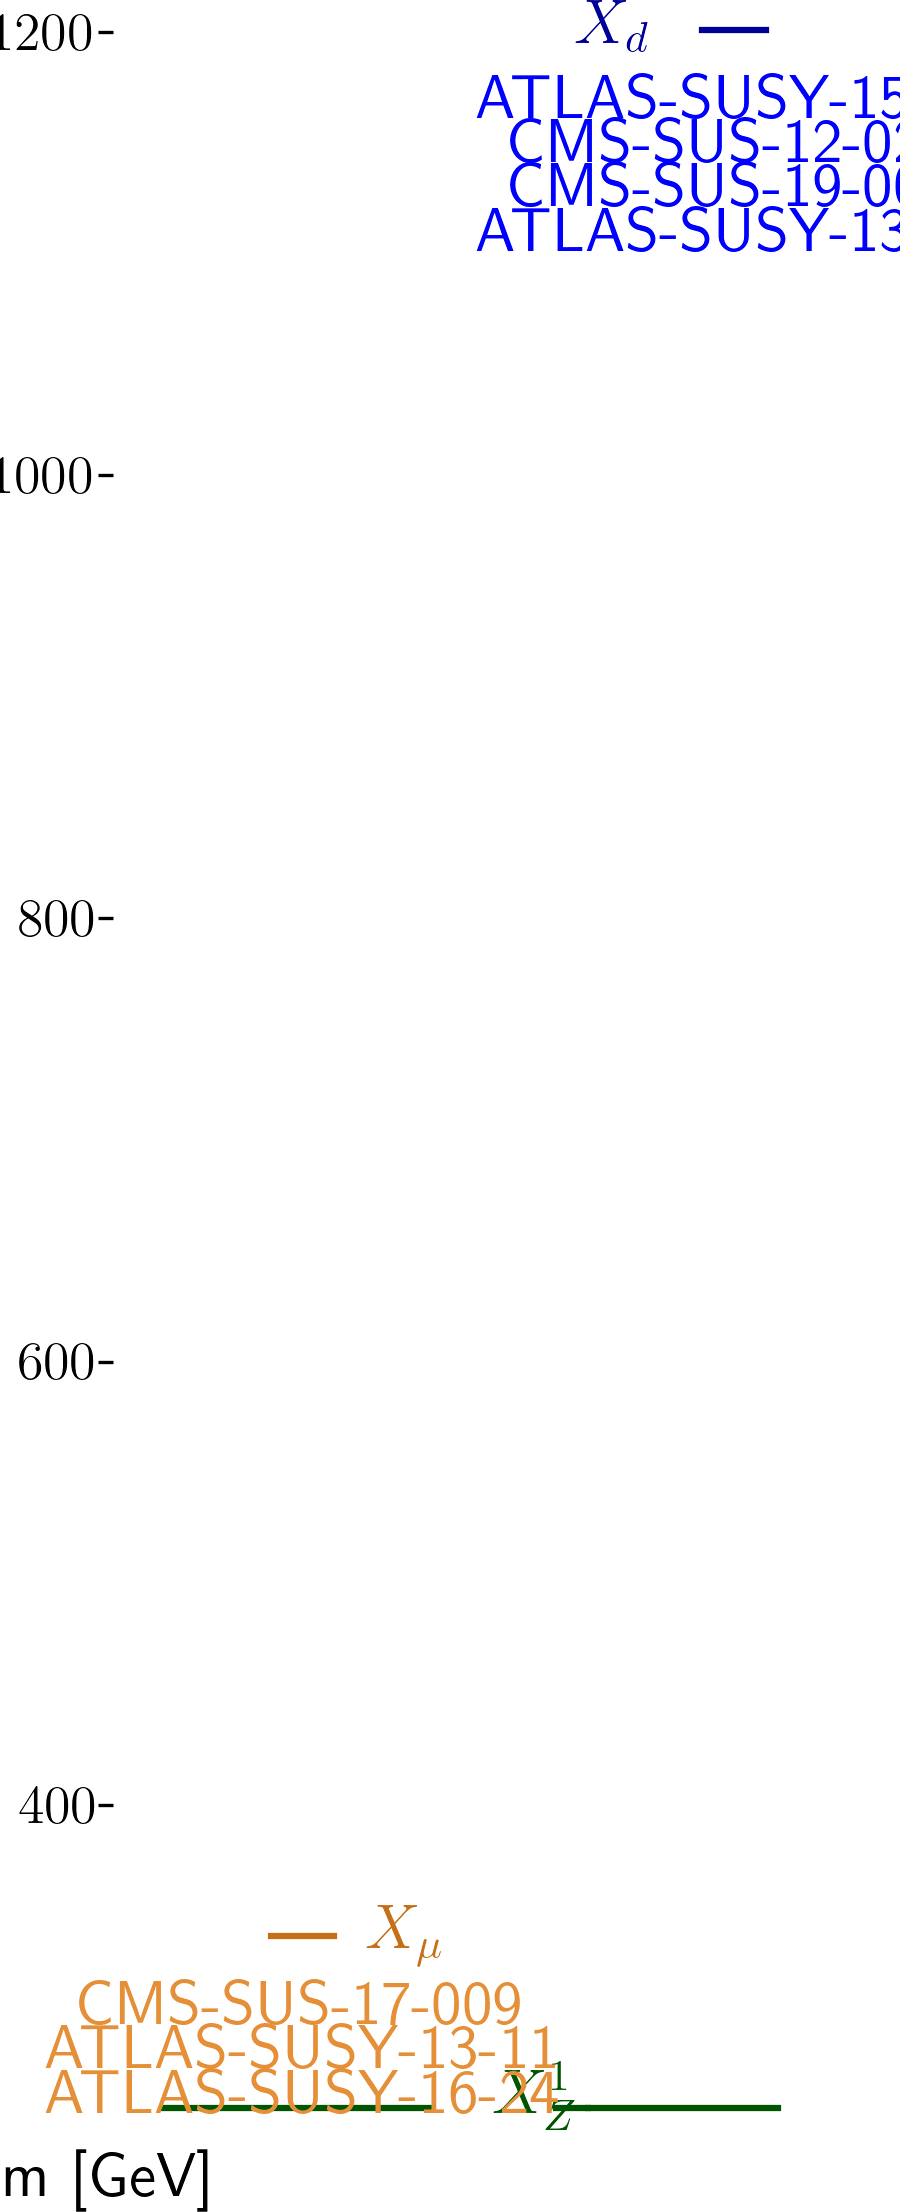
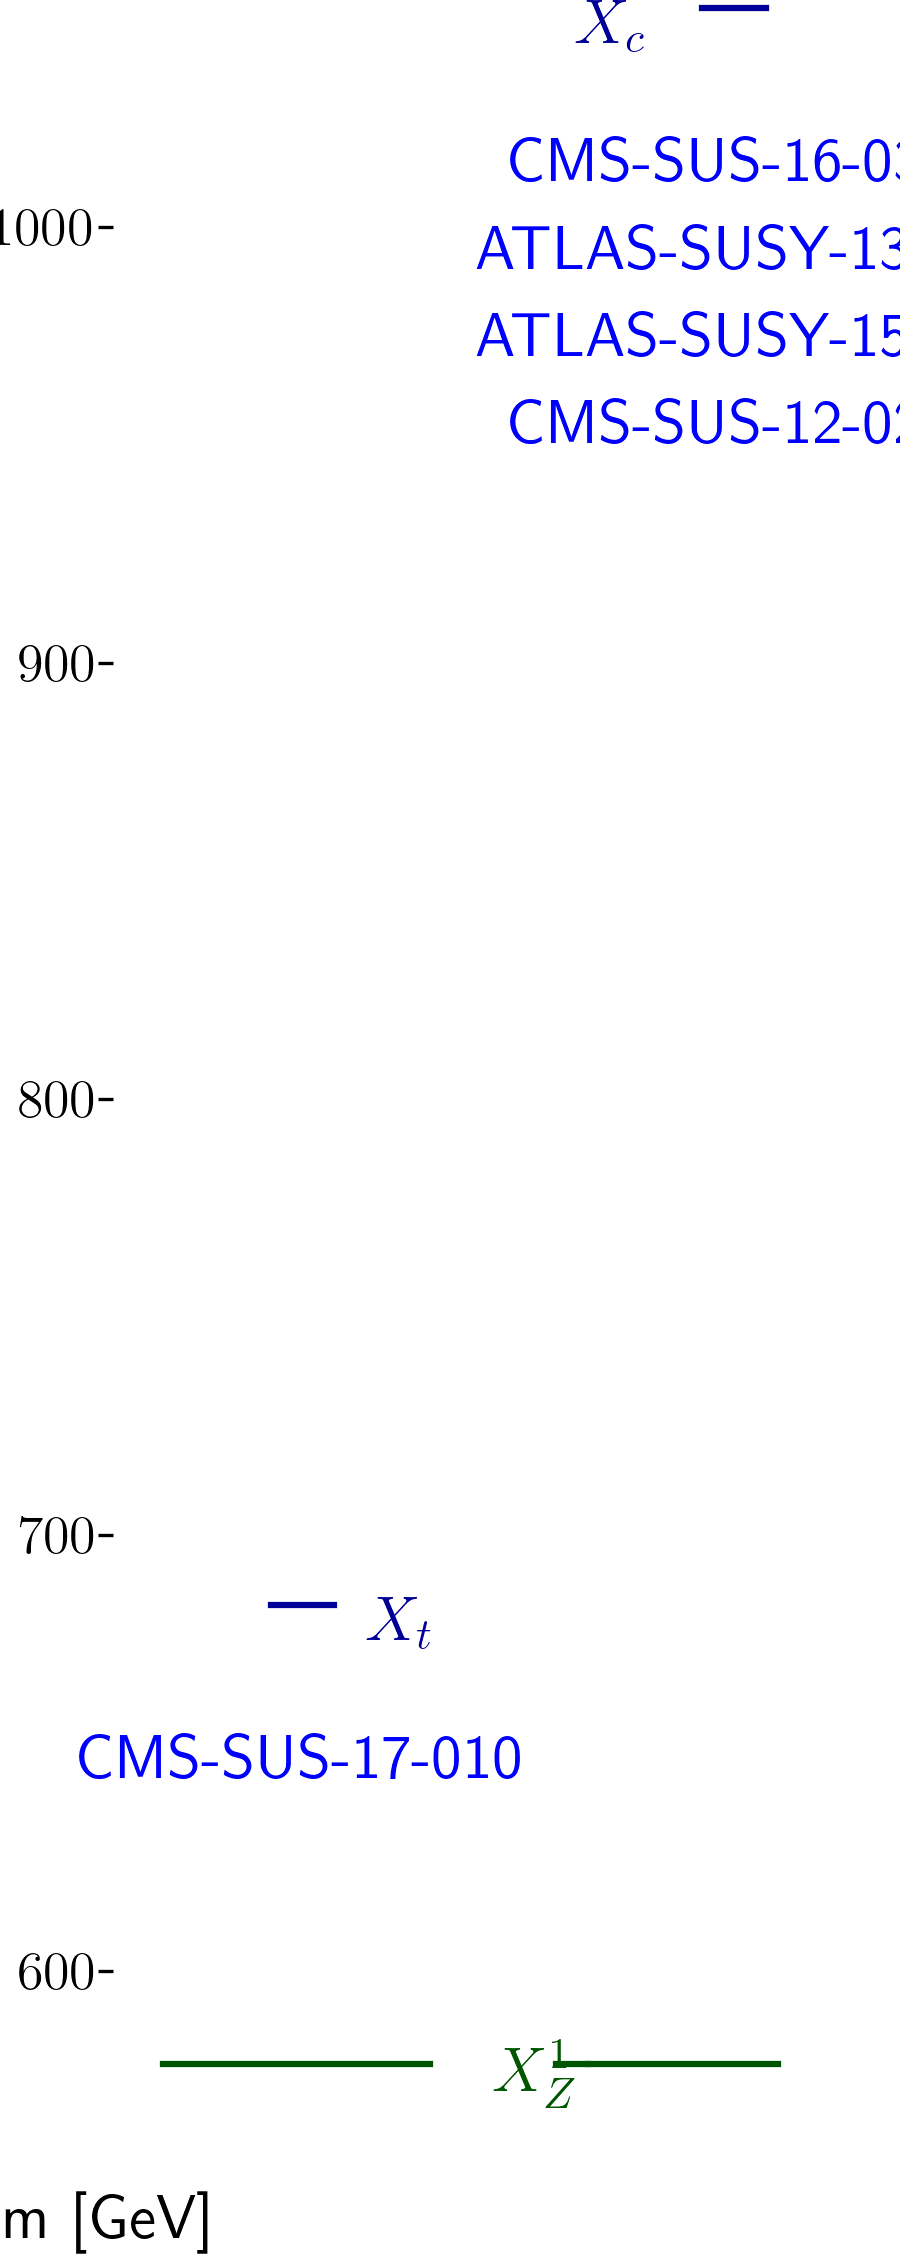
automated update by plotHiscore.py

diff --git a/protomodels/latest/index.html b/protomodels/latest/index.html
@@ -1,32 +1,30 @@
 <html>
 <body>
 <center>
-<table><td><h1>Current best protomodel: K=5.43</h1><td><img height=60px src=https://smodels.github.io/pics/banner.png></table>
+<table><td><h1>Current best protomodel: K=2.18</h1><td><img height=60px src=https://smodels.github.io/pics/banner.png></table>
 </center>
-<b><a href=./hiscore.slha>ProtoModel</a> <a href=./pmodel.py>(dict)</a> produced with <a href=https://smodels.github.io/docs/Validation124fake23>database v1.2.4fake23</a>, combination strategy <a href=./matrix_aggressive.png>aggressive</a> in walker 47 step 129.</b> K plots for: <a href=./M1000022.png?7078070>X<sub>Z</sub><sup>1</sup></a>, <a href=./M1000001.png?7078070>X<sub>d</sub></a>, <a href=./M1000013.png?7078070>X<sub>&mu;</sub></a>. HPD plots for: <a href=./llhd1000001.png?7078070>X<sub>d</sub></a>, <a href=./llhd1000013.png?7078070>X<sub>&mu;</sub></a>. SSM plots for: <br>
+<b><a href=./hiscore.slha>ProtoModel</a> <a href=./pmodel.py>(dict)</a> produced with <a href=https://smodels.github.io/docs/Validation124fake21>database v1.2.4fake21</a>, combination strategy <a href=./matrix_aggressive.png>aggressive</a> in walker 49 step 171.</b> K plots for: <a href=./M1000022.png?7078106>X<sub>Z</sub><sup>1</sup></a>, <a href=./M1000004.png?7078106>X<sub>c</sub></a>, <a href=./M1000006.png?7078106>X<sub>t</sub></a>. HPD plots for: <a href=./llhd1000004.png?7078106>X<sub>c</sub></a>, <a href=./llhd1000006.png?7078106>X<sub>t</sub></a>. SSM plots for: <a href=./ssm_-1000006_1000006.png?7078106>(x&#772;<sub>t</sub>,X<sub>t</sub>)</a><br>
 <table width=80%>
 <tr><td>
 <br><b>18 predictions available. Highest r values are:</b><br><ul>
-<li><a href=http://cms-results.web.cern.ch/cms-results/public-results/publications/SUS-16-033/index.html>CMS-SUS-16-033</a>:T2 r=1.30, r<sub>exp</sub>=0.45<br>
-<li><a href=https://atlas.web.cern.ch/Atlas/GROUPS/PHYSICS/PAPERS/SUSY-2016-07/>ATLAS-SUSY-2016-07</a>:T2 r=0.63, r<sub>exp</sub>=0.36<br>
-<li><a href=https://atlas.web.cern.ch/Atlas/GROUPS/PHYSICS/PAPERS/SUSY-2016-07/>ATLAS-SUSY-2016-07</a>:T2 r=0.50, r<sub>exp</sub>=N/A<br>
-<li><a href=https://cms-results.web.cern.ch/cms-results/public-results/publications/SUS-17-009/>CMS-SUS-17-009</a>:TSlepSlep r=0.49, r<sub>exp</sub>=0.86<br>
-<li><a href=https://atlas.web.cern.ch/Atlas/GROUPS/PHYSICS/PAPERS/SUSY-2013-11/>ATLAS-SUSY-2013-11</a>:TSlepSlep r=0.48, r<sub>exp</sub>=0.24<br>
+<li><a href=http://cms-results.web.cern.ch/cms-results/public-results/publications/SUS-19-006/index.html>CMS-SUS-19-006</a>:T2 r=1.10, r<sub>exp</sub>=N/A<br>
+<li><a href=http://cms-results.web.cern.ch/cms-results/public-results/publications/SUS-16-036/index.html>CMS-SUS-16-036</a>:T2 r=0.80, r<sub>exp</sub>=N/A<br>
+<li><a href=http://cms-results.web.cern.ch/cms-results/public-results/publications/SUS-16-033/index.html>CMS-SUS-16-033</a>:T2 r=0.54, r<sub>exp</sub>=N/A<br>
+<li><a href=http://cms-results.web.cern.ch/cms-results/public-results/publications/SUS-17-010>CMS-SUS-17-010</a>:T2tt r=0.50, r<sub>exp</sub>=N/A<br>
+<li><a href=http://cms-results.web.cern.ch/cms-results/public-results/publications/SUS-16-051/index.html>CMS-SUS-16-051</a>:T2tt r=0.37, r<sub>exp</sub>=N/A<br>
 </ul>
 <td><br><b>K values without analyses: (contribution)</b><br>
 <ul>
-<li> <a href=https://twiki.cern.ch/twiki/bin/view/CMSPublic/PhysicsResultsSUS12028>CMS-SUS-12-028</a>: 5.64 (-3%)
-<li> <a href=https://atlas.web.cern.ch/Atlas/GROUPS/PHYSICS/PAPERS/SUSY-2013-11/>ATLAS-SUSY-2013-11</a>: 5.64 (-3%)
-<li> <a href=https://atlas.web.cern.ch/Atlas/GROUPS/PHYSICS/PAPERS/SUSY-2013-02/>ATLAS-SUSY-2013-02</a>: 5.64 (-3%)
-<li> <a href=http://atlas.web.cern.ch/Atlas/GROUPS/PHYSICS/PAPERS/SUSY-2015-06/>ATLAS-SUSY-2015-06</a>: 5.56 (-2%)
-<li> <a href=https://atlas.web.cern.ch/Atlas/GROUPS/PHYSICS/PAPERS/SUSY-2016-24/>ATLAS-SUSY-2016-24</a>: 3.64 (23%)
-<li> <a href=https://cms-results.web.cern.ch/cms-results/public-results/publications/SUS-17-009/>CMS-SUS-17-009</a>: 2.69 (36%)
-<li> <a href=http://cms-results.web.cern.ch/cms-results/public-results/publications/SUS-19-006/index.html>CMS-SUS-19-006</a>: 1.57 (51%)
-<td><img width=600px src=./texdoc.png?1600078070>
-<br><font size=-1>Last updated: Mon Sep 14 12:07:50 2020</font>
+<li> <a href=https://twiki.cern.ch/twiki/bin/view/CMSPublic/PhysicsResultsSUS12028>CMS-SUS-12-028</a>: 2.20 (0%)
+<li> <a href=https://atlas.web.cern.ch/Atlas/GROUPS/PHYSICS/PAPERS/SUSY-2013-02/>ATLAS-SUSY-2013-02</a>: 2.07 (2%)
+<li> <a href=http://atlas.web.cern.ch/Atlas/GROUPS/PHYSICS/PAPERS/SUSY-2015-06/>ATLAS-SUSY-2015-06</a>: 1.35 (15%)
+<li> <a href=http://cms-results.web.cern.ch/cms-results/public-results/publications/SUS-16-033/index.html>CMS-SUS-16-033</a>: 0.00 (39%)
+<li> <a href=http://cms-results.web.cern.ch/cms-results/public-results/publications/SUS-17-010>CMS-SUS-17-010</a>: -0.34 (45%)
+<td><img width=600px src=./texdoc.png?1600078106>
+<br><font size=-1>Last updated: Mon Sep 14 12:08:26 2020</font>
 </table><table style="width:80%">
-<td width=45%><img height=580px src=./ruler.png?1600078070><td width=55%><img height=380px src=./decays.png?1600078070>
-<font size=-3><iframe type="text/html" height="220px" width="100%s" frameborder="0" src="./rawnumbers.html?1600078070"></iframe></font>
+<td width=45%><img height=580px src=./ruler.png?1600078106><td width=55%><img height=380px src=./decays.png?1600078106>
+<font size=-3><iframe type="text/html" height="220px" width="100%s" frameborder="0" src="./rawnumbers.html?1600078106"></iframe></font>
 </table>
 </body>
 </html>

diff --git a/protomodels/latest/rawnumbers.html b/protomodels/latest/rawnumbers.html
@@ -1,11 +1,9 @@
 <table>
 <tr><th>Analysis Name</th><th>Type</th><th>Dataset</th><th>Observed</th><th>Expected</th><th>Approx &sigma;</th><th>Particles</th>
 </tr>
-<tr><td><a href=https://atlas.web.cern.ch/Atlas/GROUPS/PHYSICS/PAPERS/SUSY-2013-02/>ATLAS-SUSY-2013-02</a></td><td>em</td> <td>SR6jm</td><td>36</td><td>33 +/- 6</td><td style="text-align:right">0.4 &sigma;</td><td style="text-align:right">X<sub>d</sub></td></tr>
-<tr><td><a href=https://atlas.web.cern.ch/Atlas/GROUPS/PHYSICS/PAPERS/SUSY-2013-11/>ATLAS-SUSY-2013-11</a></td><td>em</td> <td>Zjets</td><td>1</td><td>1.4 +/- 0.6</td><td style="text-align:right">-0.3 &sigma;</td><td style="text-align:right">X<sub>&mu;</sub></td></tr>
-<tr><td><a href=http://atlas.web.cern.ch/Atlas/GROUPS/PHYSICS/PAPERS/SUSY-2015-06/>ATLAS-SUSY-2015-06</a></td><td>em</td> <td>SR4jt</td><td>5</td><td>4.1 +/- 1.1</td><td style="text-align:right">0.4 &sigma;</td><td style="text-align:right">X<sub>d</sub></td></tr>
-<tr><td><a href=https://atlas.web.cern.ch/Atlas/GROUPS/PHYSICS/PAPERS/SUSY-2016-24/>ATLAS-SUSY-2016-24</a></td><td>em</td> <td>SR2-SF-loose</td><td>169</td><td>133 +/- 22</td><td style="text-align:right">1.4 &sigma;</td><td style="text-align:right">X<sub>&mu;</sub></td></tr>
-<tr><td><a href=https://twiki.cern.ch/twiki/bin/view/CMSPublic/PhysicsResultsSUS12028>CMS-SUS-12-028</a></td><td>ul</td> <td>-</td><td> 5.0 fb </td><td> 6.9 fb</td><td style="text-align:right">-0.5 &sigma;</td><td style="text-align:right">X<sub>d</sub></td></tr>
-<tr><td><a href=https://cms-results.web.cern.ch/cms-results/public-results/publications/SUS-17-009/>CMS-SUS-17-009</a></td><td>ul</td> <td>-</td><td> 38.9 fb </td><td> 22.3 fb</td><td style="text-align:right">1.5 &sigma;</td><td style="text-align:right">X<sub>&mu;</sub></td></tr>
-<tr><td><a href=http://cms-results.web.cern.ch/cms-results/public-results/publications/SUS-19-006/index.html>CMS-SUS-19-006</a></td><td>ul</td> <td>-</td><td> 7.0 fb </td><td> 3.7 fb</td><td style="text-align:right">1.8 &sigma;</td><td style="text-align:right">X<sub>d</sub></td></tr>
+<tr><td><a href=https://atlas.web.cern.ch/Atlas/GROUPS/PHYSICS/PAPERS/SUSY-2013-02/>ATLAS-SUSY-2013-02</a></td><td>em</td> <td>SR6jtp</td><td>8</td><td>4.9 +/- 1.6</td><td style="text-align:right">1.1 &sigma;</td><td style="text-align:right">X<sub>c</sub></td></tr>
+<tr><td><a href=http://atlas.web.cern.ch/Atlas/GROUPS/PHYSICS/PAPERS/SUSY-2015-06/>ATLAS-SUSY-2015-06</a></td><td>em</td> <td>SR4jt</td><td>11</td><td>4.1 +/- 1.1</td><td style="text-align:right">3.0 &sigma;</td><td style="text-align:right">X<sub>c</sub></td></tr>
+<tr><td><a href=https://twiki.cern.ch/twiki/bin/view/CMSPublic/PhysicsResultsSUS12028>CMS-SUS-12-028</a></td><td>ul</td> <td>-</td><td> 17.2 fb </td><td> 20.0 fb</td><td style="text-align:right">-0.3 &sigma;</td><td style="text-align:right">X<sub>c</sub></td></tr>
+<tr><td><a href=http://cms-results.web.cern.ch/cms-results/public-results/publications/SUS-16-033/index.html>CMS-SUS-16-033</a></td><td>ul</td> <td>-</td><td> 36.8 fb </td><td> 22.6 fb</td><td style="text-align:right">1.2 &sigma;</td><td style="text-align:right">X<sub>c</sub></td></tr>
+<tr><td><a href=http://cms-results.web.cern.ch/cms-results/public-results/publications/SUS-17-010>CMS-SUS-17-010</a></td><td>ul</td> <td>-</td><td> 840.8 fb </td><td> 505.3 fb</td><td style="text-align:right">1.3 &sigma;</td><td style="text-align:right">X<sub>t</sub></td></tr>
 </table>

diff --git a/protomodels/latest/pmodel.py b/protomodels/latest/pmodel.py
@@ -1,1 +1,1 @@
-{'masses': {1000022: 253.412, 1000013: 330.671, 1000001: 1190.809}, 'ssmultipliers': {(1000022, 1000022): 0.07, (1000013, 1000013): 19.472, (-1000013, 1000013): 21.269, (-1000013, -1000013): 0.0, (1000013, 1000022): 21.269, (-1000013, 1000022): 21.269, (1000001, 1000001): 0.791, (-1000001, 1000001): 1.628, (-1000001, -1000001): 1.628, (1000001, 1000022): 1.628, (-1000001, 1000022): 1.628, (1000001, 1000013): 1.739, (-1000001, 1000013): 1.739, (-1000013, 1000001): 1.942, (-1000013, -1000001): 0.0}, 'decays': {1000022: {}, 1000013: {1000022: 1.0}, 1000001: {1000022: 1.0}}, 'timestamp': 'Mon Sep 14 12:06:42 2020', 'Z': 2.996, 'K': 5.426, 'step': 129, 'codever': '1.0', 'dbver': '1.2.4fake23'}
+{'masses': {1000022: 568.614, 1000006: 674.007, 1000004: 1040.345}, 'ssmultipliers': {(1000022, 1000022): 63662854.853, (1000006, 1000006): 4.884, (-1000006, 1000006): 4.884, (-1000006, -1000006): 4.884, (1000006, 1000022): 4.884, (-1000006, 1000022): 4.884, (1000004, 1000004): 4.231, (-1000004, 1000004): 4.231, (-1000004, -1000004): 4.231, (1000004, 1000022): 4.231, (-1000004, 1000022): 4.231, (1000004, 1000006): 4.231, (-1000004, 1000006): 4.231, (-1000006, 1000004): 4.231, (-1000006, -1000004): 4.231}, 'decays': {1000022: {}, 1000006: {1000022: 1.0}, 1000004: {1000022: 1.0}}, 'timestamp': 'Mon Sep 14 12:06:33 2020', 'Z': 2.389, 'K': 2.184, 'step': 171, 'codever': '1.0', 'dbver': '1.2.4fake21'}
